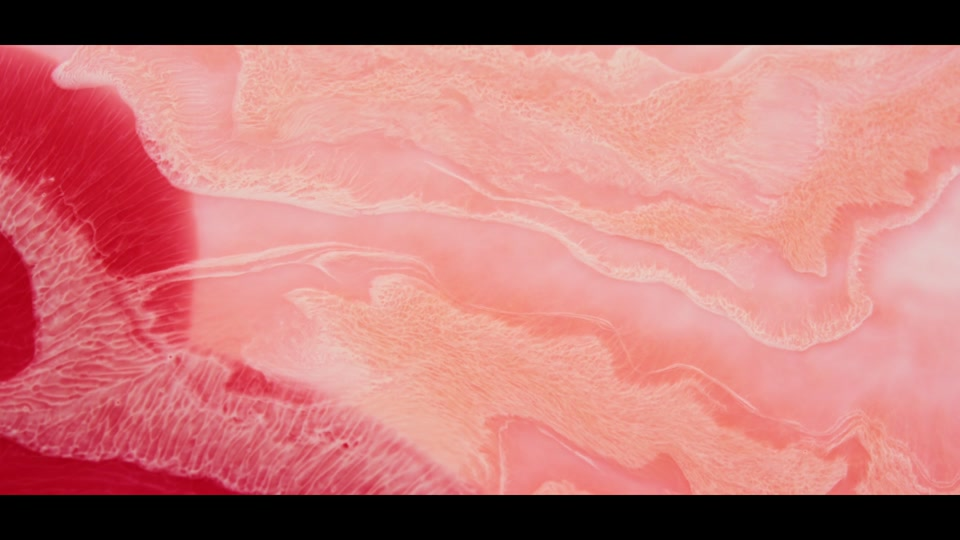
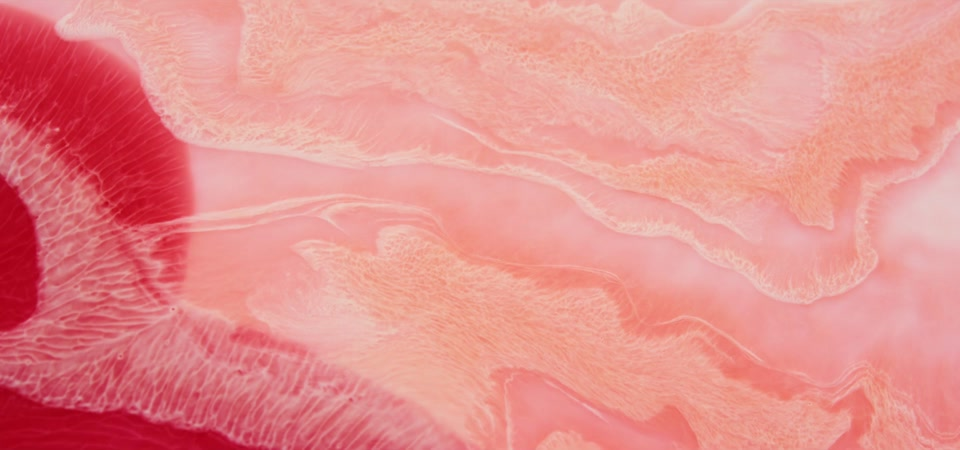
fix(source-archive): remove disturbing clips and crop letterboxing

diff --git a/data/source-library-youtube-data.js b/data/source-library-youtube-data.js
@@ -7862,7 +7862,7 @@ window.SOURCE_LIBRARY = (window.SOURCE_LIBRARY || []).concat([
   {
     "id": "438",
     "title": "Abstract View Of Glittery Black And Red Liquid",
-    "clip": "438_abstract-view-of-glittery-black-and-red-liquid.mp4",
+    "clip": "438_abstract-view-of-glittery-black-and-red-liquid-cropped.mp4",
     "thumb": "438_abstract-view-of-glittery-black-and-red-liquid.jpg",
     "source": "local:macbookpro/037-abstract-view-of-glittery-black-and-red-liquid.ts",
     "ranges": [
@@ -7910,7 +7910,7 @@ window.SOURCE_LIBRARY = (window.SOURCE_LIBRARY || []).concat([
   {
     "id": "440",
     "title": "Pink And Red Waves Of Color Mixing",
-    "clip": "440_pink-and-red-waves-of-color-mixing.mp4",
+    "clip": "440_pink-and-red-waves-of-color-mixing-cropped.mp4",
     "thumb": "440_pink-and-red-waves-of-color-mixing.jpg",
     "source": "local:macbookpro/039-pink-and-red-waves-of-color-mixing.ts",
     "ranges": [
@@ -8235,29 +8235,7 @@ window.SOURCE_LIBRARY = (window.SOURCE_LIBRARY || []).concat([
       "experimental"
     ]
   },
-  {
-    "id": "454",
-    "title": "Somber Concentration Sterile Medical Professional",
-    "clip": "454_somber-concentration-sterile-medical-professional.mp4",
-    "thumb": "454_somber-concentration-sterile-medical-professional.jpg",
-    "source": "local:macbookpro/053-somber-concentration-sterile-medical-professional.ts",
-    "ranges": [
-      [
-        0,
-        14.36
-      ]
-    ],
-    "theme": "06",
-    "category": "Experimental / Material / Object",
-    "keywords": [
-      "somber",
-      "concentration",
-      "sterile",
-      "medical",
-      "professional",
-      "experimental"
-    ]
-  },
+
   {
     "id": "455",
     "title": "Transition Glitch Quick Blue",
@@ -8283,7 +8261,7 @@ window.SOURCE_LIBRARY = (window.SOURCE_LIBRARY || []).concat([
   {
     "id": "456",
     "title": "Dirtbikes In Smoke In Front Of Headlights At Night",
-    "clip": "456_dirtbikes-in-smoke-in-front-of-headlights-at-night.mp4",
+    "clip": "456_dirtbikes-in-smoke-in-front-of-headlights-at-night-cropped.mp4",
     "thumb": "456_dirtbikes-in-smoke-in-front-of-headlights-at-night.jpg",
     "source": "local:macbookpro/055-dirtbikes-in-smoke-in-front-of-headlights-at-night.ts",
     "ranges": [
@@ -8468,7 +8446,7 @@ window.SOURCE_LIBRARY = (window.SOURCE_LIBRARY || []).concat([
   {
     "id": "464",
     "title": "Seen From Under The Stream The Man Squats On The Rocks And Drinks Water",
-    "clip": "464_seen-from-under-the-stream-the-man-squats-on-the-rocks-and-drinks-water.mp4",
+    "clip": "464_seen-from-under-the-stream-the-man-squats-on-the-rocks-and-drinks-water-cropped.mp4",
     "thumb": "464_seen-from-under-the-stream-the-man-squats-on-the-rocks-and-drinks-water.jpg",
     "source": "local:macbookpro/063-seen-from-under-the-stream-the-man-squats-on-the-rocks-and-drinks-water.ts",
     "ranges": [
@@ -8581,51 +8559,8 @@ window.SOURCE_LIBRARY = (window.SOURCE_LIBRARY || []).concat([
       "experimental"
     ]
   },
-  {
-    "id": "469",
-    "title": "Blue Eyes Clinical Unsettling Grim",
-    "clip": "469_blue-eyes-clinical-unsettling-grim.mp4",
-    "thumb": "469_blue-eyes-clinical-unsettling-grim.jpg",
-    "source": "local:macbookpro/068-blue-eyes-clinical-unsettling-grim.ts",
-    "ranges": [
-      [
-        0,
-        8.08
-      ]
-    ],
-    "theme": "06",
-    "category": "Experimental / Material / Object",
-    "keywords": [
-      "blue",
-      "eyes",
-      "clinical",
-      "unsettling",
-      "grim",
-      "experimental"
-    ]
-  },
-  {
-    "id": "470",
-    "title": "Blue Light Somber Clinical",
-    "clip": "470_blue-light-somber-clinical.mp4",
-    "thumb": "470_blue-light-somber-clinical.jpg",
-    "source": "local:macbookpro/069-blue-light-somber-clinical.ts",
-    "ranges": [
-      [
-        0,
-        36.04
-      ]
-    ],
-    "theme": "06",
-    "category": "Experimental / Material / Object",
-    "keywords": [
-      "blue",
-      "light",
-      "somber",
-      "clinical",
-      "experimental"
-    ]
-  },
+
+
   {
     "id": "471",
     "title": "Man Working In A Recording Studio And Looking At A Screen",

diff --git a/README.md b/README.md
@@ -24,9 +24,9 @@ The repository keeps the interface, metadata, and thumbnails in GitHub Pages. MP
 
 ## Current archive size
 
-- 474 archive items
-- 474 MP4 clips in Cloudflare R2
-- 474 JPEG thumbnails
+- 471 archive items
+- 471 MP4 clips in Cloudflare R2
+- 471 JPEG thumbnails
 
 ## Usage
 
